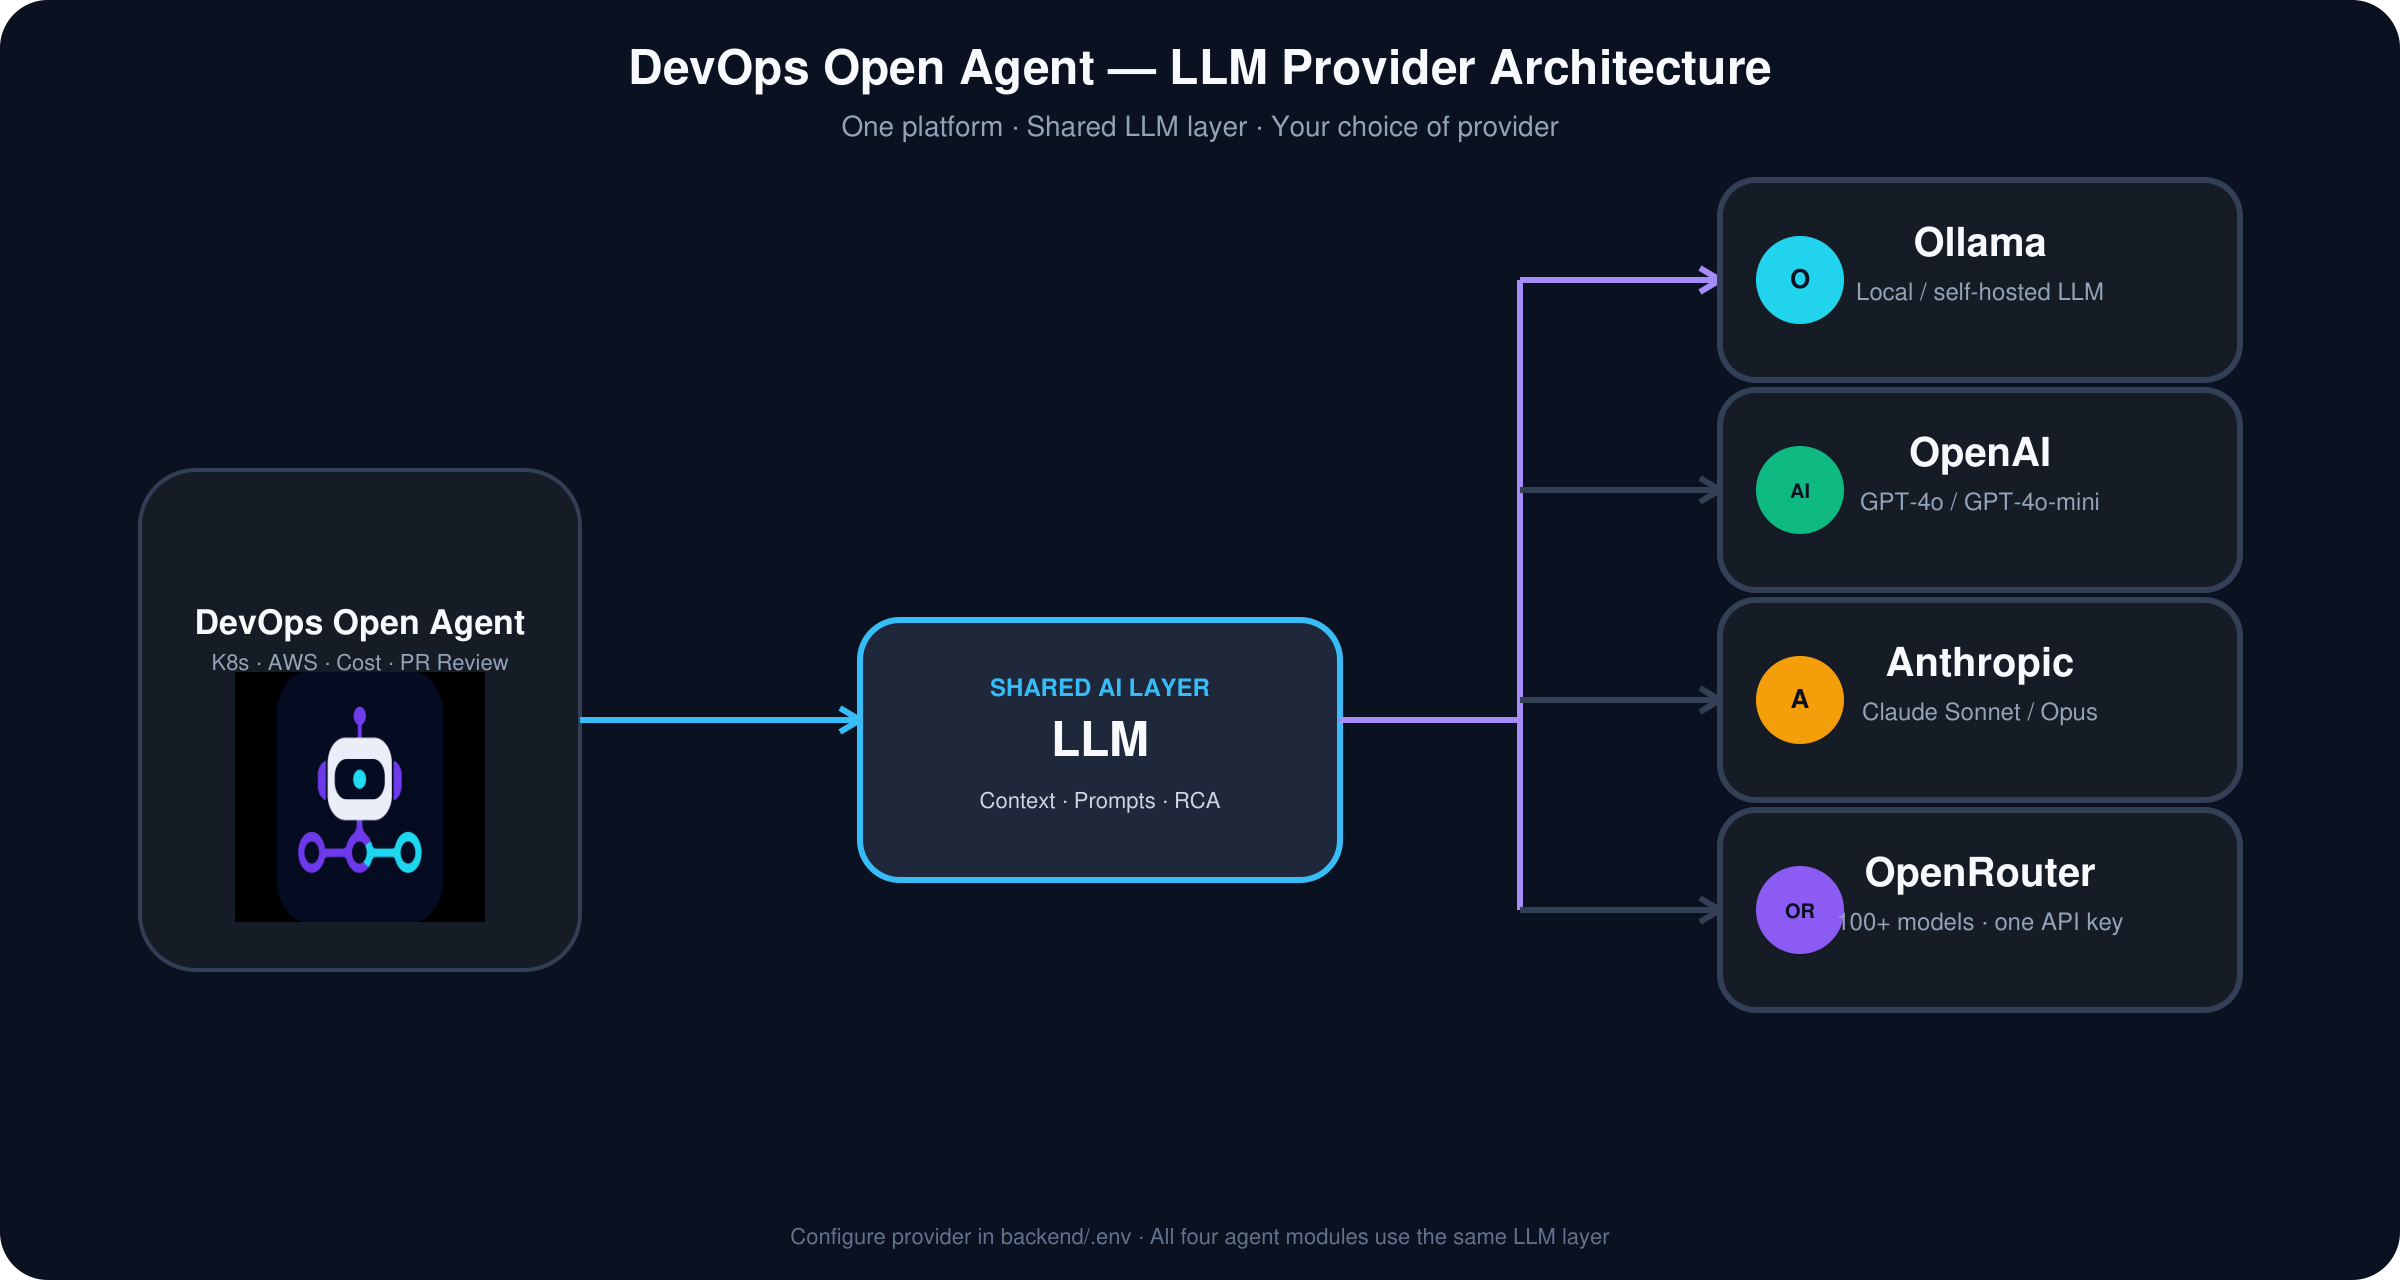
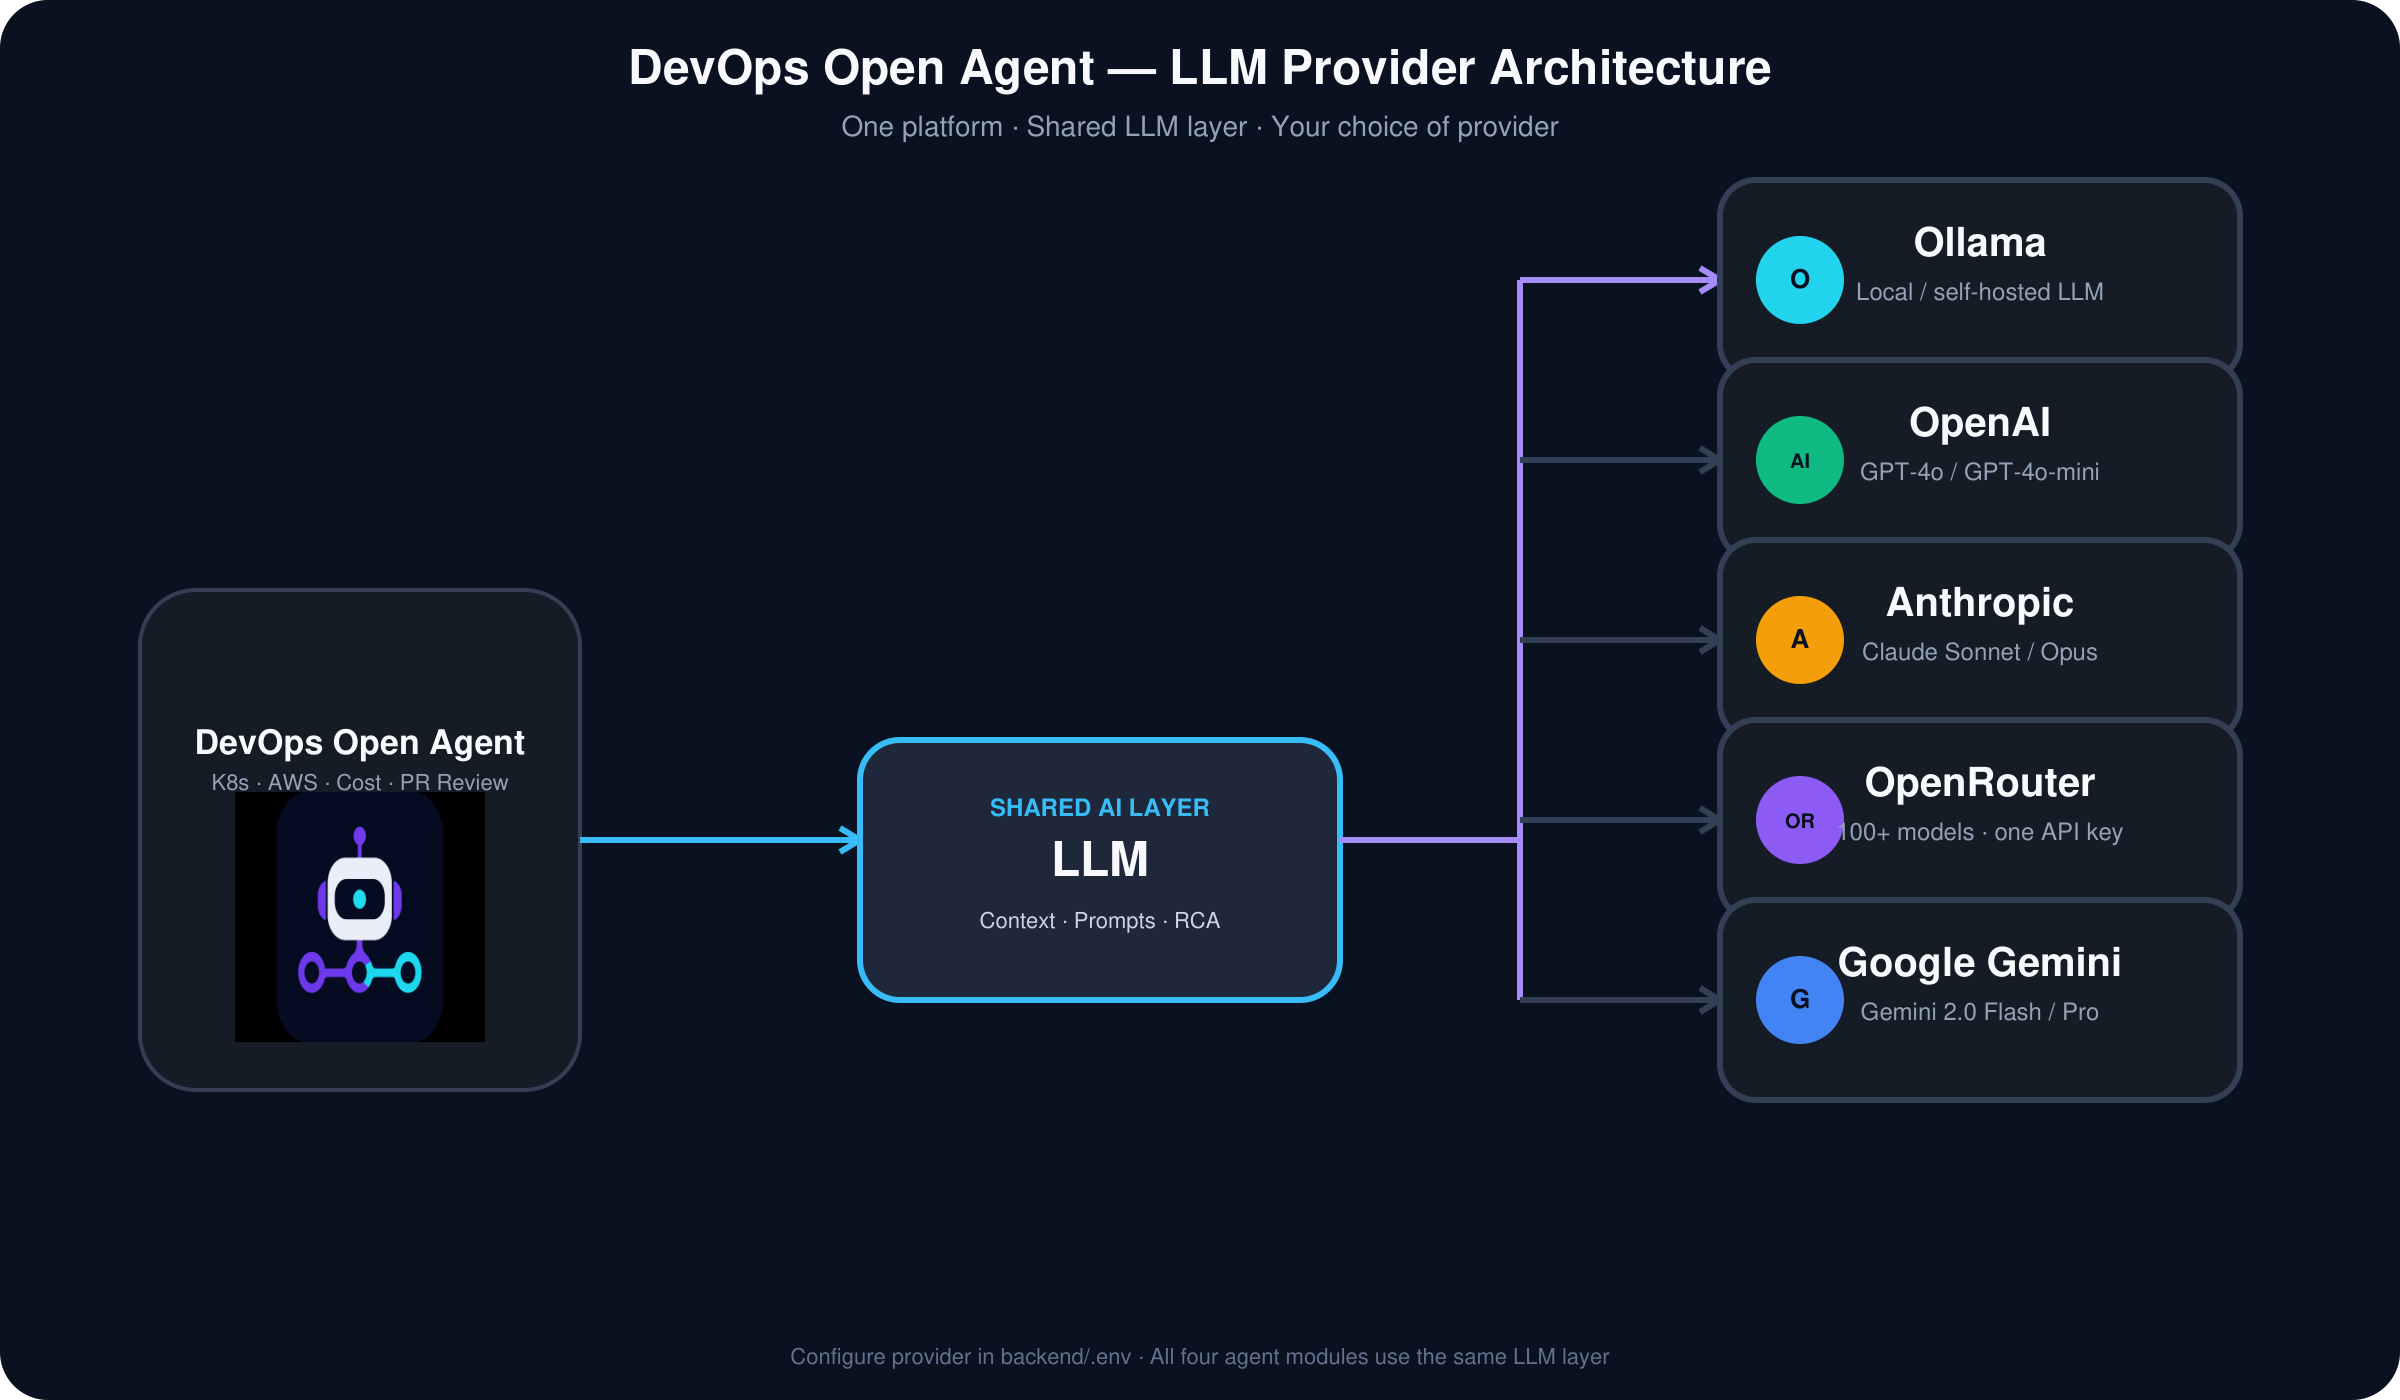
Add Google Gemini as a shared LLM provider for AI analysis.
Extends the provider factory, readiness checks, UI badges, README docs, and architecture diagram so investigations and MCP Q&A can run on Gemini.

diff --git a/frontend/components/LlmProviderBadge.tsx b/frontend/components/LlmProviderBadge.tsx
@@ -10,6 +10,7 @@ export function formatLlmProviderLabel(provider: string | null | undefined): str
     ollama: "Ollama",
     anthropic: "Anthropic",
     openrouter: "OpenRouter",
+    gemini: "Google Gemini",
   };
 
   return labels[provider.toLowerCase()] ?? provider;
@@ -25,6 +26,8 @@ function providerStyles(provider: string): string {
       return "border-orange-500/25 bg-orange-500/10 text-orange-200";
     case "openrouter":
       return "border-sky-500/25 bg-sky-500/10 text-sky-200";
+    case "gemini":
+      return "border-blue-500/25 bg-blue-500/10 text-blue-200";
     default:
       return "border-slate-500/25 bg-slate-500/10 text-slate-200";
   }

diff --git a/backend/app/ai/providers/gemini_provider.py b/backend/app/ai/providers/gemini_provider.py
@@ -1,0 +1,102 @@
+"""Google Gemini LLM provider."""
+
+from __future__ import annotations
+
+import httpx
+from loguru import logger
+
+from app.ai.providers.base import BaseLLMProvider
+from app.ai.providers.exceptions import (
+    LLMAuthenticationError,
+    LLMMalformedResponseError,
+    LLMProviderError,
+    LLMRateLimitError,
+    LLMTimeoutError,
+)
+
+
+class GeminiProvider(BaseLLMProvider):
+    """Google Generative Language API provider."""
+
+    API_BASE = "https://generativelanguage.googleapis.com/v1beta/models"
+
+    def __init__(
+        self,
+        api_key: str = "",
+        model: str = "gemini-2.0-flash",
+        timeout: float = 120.0,
+    ) -> None:
+        self.api_key = api_key
+        self.model = model or "gemini-2.0-flash"
+        self.timeout = timeout
+
+    async def generate(self, messages: list[dict], temperature: float = 0.1) -> str:
+        if not self.api_key:
+            raise LLMAuthenticationError("GEMINI_API_KEY is not configured")
+
+        system_instruction, contents = self._convert_messages(messages)
+        payload: dict = {
+            "contents": contents,
+            "generationConfig": {
+                "temperature": temperature,
+                "responseMimeType": "application/json",
+            },
+        }
+        if system_instruction is not None:
+            payload["systemInstruction"] = system_instruction
+
+        url = f"{self.API_BASE}/{self.model}:generateContent"
+        logger.info("Calling Gemini provider | model={}", self.model)
+
+        try:
+            async with httpx.AsyncClient(timeout=self.timeout) as client:
+                response = await client.post(
+                    url,
+                    headers={
+                        "Content-Type": "application/json",
+                        "x-goog-api-key": self.api_key,
+                    },
+                    json=payload,
+                )
+        except httpx.TimeoutException as exc:
+            raise LLMTimeoutError("Gemini request timed out") from exc
+        except httpx.HTTPError as exc:
+            raise LLMProviderError(f"Gemini request failed: {exc}") from exc
+
+        if response.status_code in {401, 403}:
+            raise LLMAuthenticationError("Gemini authentication failed")
+        if response.status_code == 429:
+            raise LLMRateLimitError("Gemini rate limit exceeded")
+        if response.status_code >= 400:
+            raise LLMProviderError(
+                f"Gemini API error ({response.status_code}): {response.text}"
+            )
+
+        data = response.json()
+        try:
+            parts = data["candidates"][0]["content"]["parts"]
+            text_parts = [part.get("text", "") for part in parts if part.get("text")]
+            if not text_parts:
+                raise KeyError("empty parts")
+            return "".join(text_parts)
+        except (KeyError, IndexError, TypeError) as exc:
+            raise LLMMalformedResponseError("Gemini returned a malformed response") from exc
+
+    @staticmethod
+    def _convert_messages(messages: list[dict]) -> tuple[dict | None, list[dict]]:
+        system_instruction: dict | None = None
+        contents: list[dict] = []
+
+        for message in messages:
+            role = message.get("role", "user")
+            text = message.get("content", "")
+            if role == "system":
+                system_instruction = {"parts": [{"text": text}]}
+                continue
+            gemini_role = "model" if role == "assistant" else "user"
+            contents.append({"role": gemini_role, "parts": [{"text": text}]})
+
+        if not contents:
+            contents = [{"role": "user", "parts": [{"text": ""}]}]
+
+        return system_instruction, contents

diff --git a/scripts/build_llm_diagram.py b/scripts/build_llm_diagram.py
@@ -15,13 +15,14 @@ OUT_PDF = ROOT / "img" / "llm-provider-diagram.pdf"
 OUT_SVG = ROOT / "img" / "llm-provider-diagram.svg"
 TMP_PDF = ROOT / "img" / ".llm-provider-diagram-tmp.pdf"
 
-W, H = 1200, 640
+W, H = 1200, 700
 
 PROVIDERS = [
     ("Ollama", "Local / self-hosted LLM", "O", (0.13, 0.83, 0.93)),
     ("OpenAI", "GPT-4o / GPT-4o-mini", "AI", (0.06, 0.73, 0.51)),
     ("Anthropic", "Claude Sonnet / Opus", "A", (0.96, 0.62, 0.04)),
     ("OpenRouter", "100+ models · one API key", "OR", (0.55, 0.36, 0.96)),
+    ("Google Gemini", "Gemini 2.0 Flash / Pro", "G", (0.26, 0.52, 0.96)),
 ]
 
 
@@ -85,7 +86,7 @@ def draw_diagram(pdf_path: Path) -> None:
     c.drawCentredString(llm_x + llm_w / 2, llm_y + 36, "Context · Prompts · RCA")
 
     hub_x = 760
-    branch_ys = [500, 395, 290, 185]
+    branch_ys = [560, 470, 380, 290, 200]
     card_h = 100
 
     c.setStrokeColorRGB(0.65, 0.55, 0.98)
@@ -131,7 +132,7 @@ def draw_diagram(pdf_path: Path) -> None:
 
 
 def write_svg() -> None:
-    branch_ys = [500, 395, 290, 185]
+    branch_ys = [560, 470, 380, 290, 200]
     card_h = 100
     provider_blocks = []
     for index, (name, subtitle, initial, color) in enumerate(PROVIDERS):
@@ -152,7 +153,7 @@ def write_svg() -> None:
         )
 
     OUT_SVG.write_text(
-        f"""<svg xmlns="http://www.w3.org/2000/svg" xmlns:xlink="http://www.w3.org/1999/xlink" width="1200" height="640" viewBox="0 0 1200 640">
+        f"""<svg xmlns="http://www.w3.org/2000/svg" xmlns:xlink="http://www.w3.org/1999/xlink" width="1200" height="700" viewBox="0 0 1200 700">
   <defs>
     <linearGradient id="bg" x1="0" y1="0" x2="0" y2="1">
       <stop offset="0%" stop-color="#0B1220"/><stop offset="100%" stop-color="#111827"/>
@@ -161,7 +162,7 @@ def write_svg() -> None:
     <marker id="arrowBlue" markerWidth="10" markerHeight="10" refX="8" refY="5" orient="auto"><path d="M0,0 L10,5 L0,10 Z" fill="#38BDF8"/></marker>
     <marker id="arrowPurple" markerWidth="10" markerHeight="10" refX="8" refY="5" orient="auto"><path d="M0,0 L10,5 L0,10 Z" fill="#A78BFA"/></marker>
   </defs>
-  <rect width="1200" height="640" rx="24" fill="url(#bg)"/>
+  <rect width="1200" height="700" rx="24" fill="url(#bg)"/>
   <text x="600" y="42" text-anchor="middle" fill="#F8FAFC" font-family="system-ui,sans-serif" font-size="24" font-weight="700">DevOps Open Agent — LLM Provider Architecture</text>
   <text x="600" y="68" text-anchor="middle" fill="#94A3B8" font-family="system-ui,sans-serif" font-size="14">One platform · Shared LLM layer · Your choice of provider</text>
 
@@ -181,10 +182,10 @@ def write_svg() -> None:
   </g>
 
   <line x1="670" y1="280" x2="760" y2="280" stroke="#A78BFA" stroke-width="3"/>
-  <line x1="760" y1="185" x2="760" y2="500" stroke="#A78BFA" stroke-width="3"/>
+  <line x1="760" y1="200" x2="760" y2="560" stroke="#A78BFA" stroke-width="3"/>
 {chr(10).join(provider_blocks)}
 
-  <text x="600" y="618" text-anchor="middle" fill="#64748B" font-family="system-ui,sans-serif" font-size="12">Configure provider in backend/.env · All four agent modules use the same LLM layer</text>
+  <text x="600" y="678" text-anchor="middle" fill="#64748B" font-family="system-ui,sans-serif" font-size="12">Configure provider in backend/.env · All four agent modules use the same LLM layer</text>
 </svg>""",
         encoding="utf-8",
     )

diff --git a/backend/app/ai/llm_factory.py b/backend/app/ai/llm_factory.py
@@ -2,12 +2,13 @@
 
 from app.ai.providers.anthropic_provider import AnthropicProvider
 from app.ai.providers.base import BaseLLMProvider
+from app.ai.providers.gemini_provider import GeminiProvider
 from app.ai.providers.ollama_provider import OllamaProvider
 from app.ai.providers.openai_provider import OpenAIProvider
 from app.ai.providers.openrouter_provider import OpenRouterProvider
 from app.core.config import Settings, get_settings
 
-ALLOWED_PROVIDERS = {"openai", "anthropic", "ollama", "openrouter"}
+ALLOWED_PROVIDERS = {"openai", "anthropic", "ollama", "openrouter", "gemini"}
 
 
 class LLMProviderFactory:
@@ -18,6 +19,7 @@ class LLMProviderFactory:
         "anthropic": AnthropicProvider,
         "ollama": OllamaProvider,
         "openrouter": OpenRouterProvider,
+        "gemini": GeminiProvider,
     }
 
     @classmethod
@@ -60,6 +62,12 @@ class LLMProviderFactory:
             return provider_cls(
                 api_key=settings.openrouter_api_key,
                 model=settings.openrouter_model,
+                timeout=timeout,
+            )
+        if name == "gemini":
+            return provider_cls(
+                api_key=settings.gemini_api_key,
+                model=settings.gemini_model,
                 timeout=timeout,
             )
 

diff --git a/backend/app/core/config.py b/backend/app/core/config.py
@@ -34,6 +34,9 @@ class Settings(BaseSettings):
     openrouter_api_key: str = ""
     openrouter_model: str = "openai/gpt-4o-mini"
 
+    gemini_api_key: str = ""
+    gemini_model: str = "gemini-2.0-flash"
+
     ollama_base_url: str = "http://localhost:11434"
     ollama_model: str = "llama3.1"
 

diff --git a/backend/app/core/errors.py b/backend/app/core/errors.py
@@ -68,7 +68,7 @@ def sanitize_error_message(raw_error: str | None) -> str:
             "Please verify the kubeconfig format and current context."
         )
 
-    if "openai_api_key" in lowered or "anthropic_api_key" in lowered or "openrouter_api_key" in lowered:
+    if "openai_api_key" in lowered or "anthropic_api_key" in lowered or "openrouter_api_key" in lowered or "gemini_api_key" in lowered:
         return (
             "The configured LLM provider is unavailable.\n\n"
             "Please verify:\n"

diff --git a/backend/app/core/readiness.py b/backend/app/core/readiness.py
@@ -53,6 +53,8 @@ class ReadinessService:
             return bool(self.settings.anthropic_api_key and self.settings.anthropic_model)
         if provider_name == "openrouter":
             return bool(self.settings.openrouter_api_key and self.settings.openrouter_model)
+        if provider_name == "gemini":
+            return bool(self.settings.gemini_api_key and self.settings.gemini_model)
 
         try:
             LLMProviderFactory.create(settings=self.settings)

diff --git a/README.md b/README.md
@@ -43,14 +43,16 @@ The demo covers:
 - **Frontend:** Next.js 15, TypeScript, Tailwind CSS, TanStack Query
 - **Runtime:** Docker Compose
 
-Supported LLM providers: OpenAI, Anthropic, OpenRouter, Ollama — see [LLM Supported](#llm-supported).
+Supported LLM providers: OpenAI, Anthropic, OpenRouter, Google Gemini, Ollama — see [LLM Supported](#llm-supported).
 
 ## LLM Supported
 
 All four agent modules (Kubernetes, AWS, Cloud Cost, PR Reviewer) use a **shared LLM layer**.  
 Configure one provider in `backend/.env` — every investigation, diagnosis, and PR review uses it.
 
-![LLM provider architecture — DevOps Open Agent to Ollama, OpenAI, Anthropic, and OpenRouter](img/llm-provider-diagram.png)
+![LLM provider architecture — DevOps Open Agent to Ollama, OpenAI, Anthropic, OpenRouter, and Google Gemini](img/llm-provider-diagram.png)
+
+Regenerate the diagram: `python3 scripts/build_llm_diagram.py`
 
 | Provider | `LLM_PROVIDER` | Configure in `backend/.env` |
 |----------|--------------|-------------------------------|
@@ -58,6 +60,7 @@ Configure one provider in `backend/.env` — every investigation, diagnosis, and
 | **OpenAI** | `openai` | `OPENAI_API_KEY`, `OPENAI_MODEL` |
 | **Anthropic** | `anthropic` | `ANTHROPIC_API_KEY`, `ANTHROPIC_MODEL` |
 | **OpenRouter** | `openrouter` | `OPENROUTER_API_KEY`, `OPENROUTER_MODEL` |
+| **Google Gemini** | `gemini` | `GEMINI_API_KEY`, `GEMINI_MODEL` |
 
 Example (`backend/.env`):
 
@@ -71,9 +74,14 @@ ANTHROPIC_MODEL=claude-sonnet-4-6
 # LLM_PROVIDER=openrouter
 # OPENROUTER_API_KEY=sk-or-...
 # OPENROUTER_MODEL=openai/gpt-4o-mini
+
+# Google Gemini
+# LLM_PROVIDER=gemini
+# GEMINI_API_KEY=...
+# GEMINI_MODEL=gemini-2.0-flash
 ```
 
-After changing provider settings, restart the backend:
+After changing provider settings, recreate the backend so `backend/.env` is reloaded:
 
 ```bash
 docker compose up -d --force-recreate backend
@@ -739,6 +747,11 @@ OLLAMA_MODEL=gemma4:e4b
 # LLM_PROVIDER=openrouter
 # OPENROUTER_API_KEY=sk-or-...
 # OPENROUTER_MODEL=openai/gpt-4o-mini
+
+# Google Gemini (optional)
+# LLM_PROVIDER=gemini
+# GEMINI_API_KEY=
+# GEMINI_MODEL=gemini-2.0-flash
 
 GITHUB_TOKEN=
 GITHUB_WEBHOOK_SECRET=

diff --git a/docs/ARCHITECTURE.md b/docs/ARCHITECTURE.md
@@ -121,7 +121,7 @@ flowchart LR
 **LLM providers** (configured in `backend/.env`):
 
 ```env
-LLM_PROVIDER=openai|anthropic|ollama|openrouter
+LLM_PROVIDER=openai|anthropic|ollama|openrouter|gemini
 ```
 
 Implementation: `backend/app/ai/llm_factory.py`